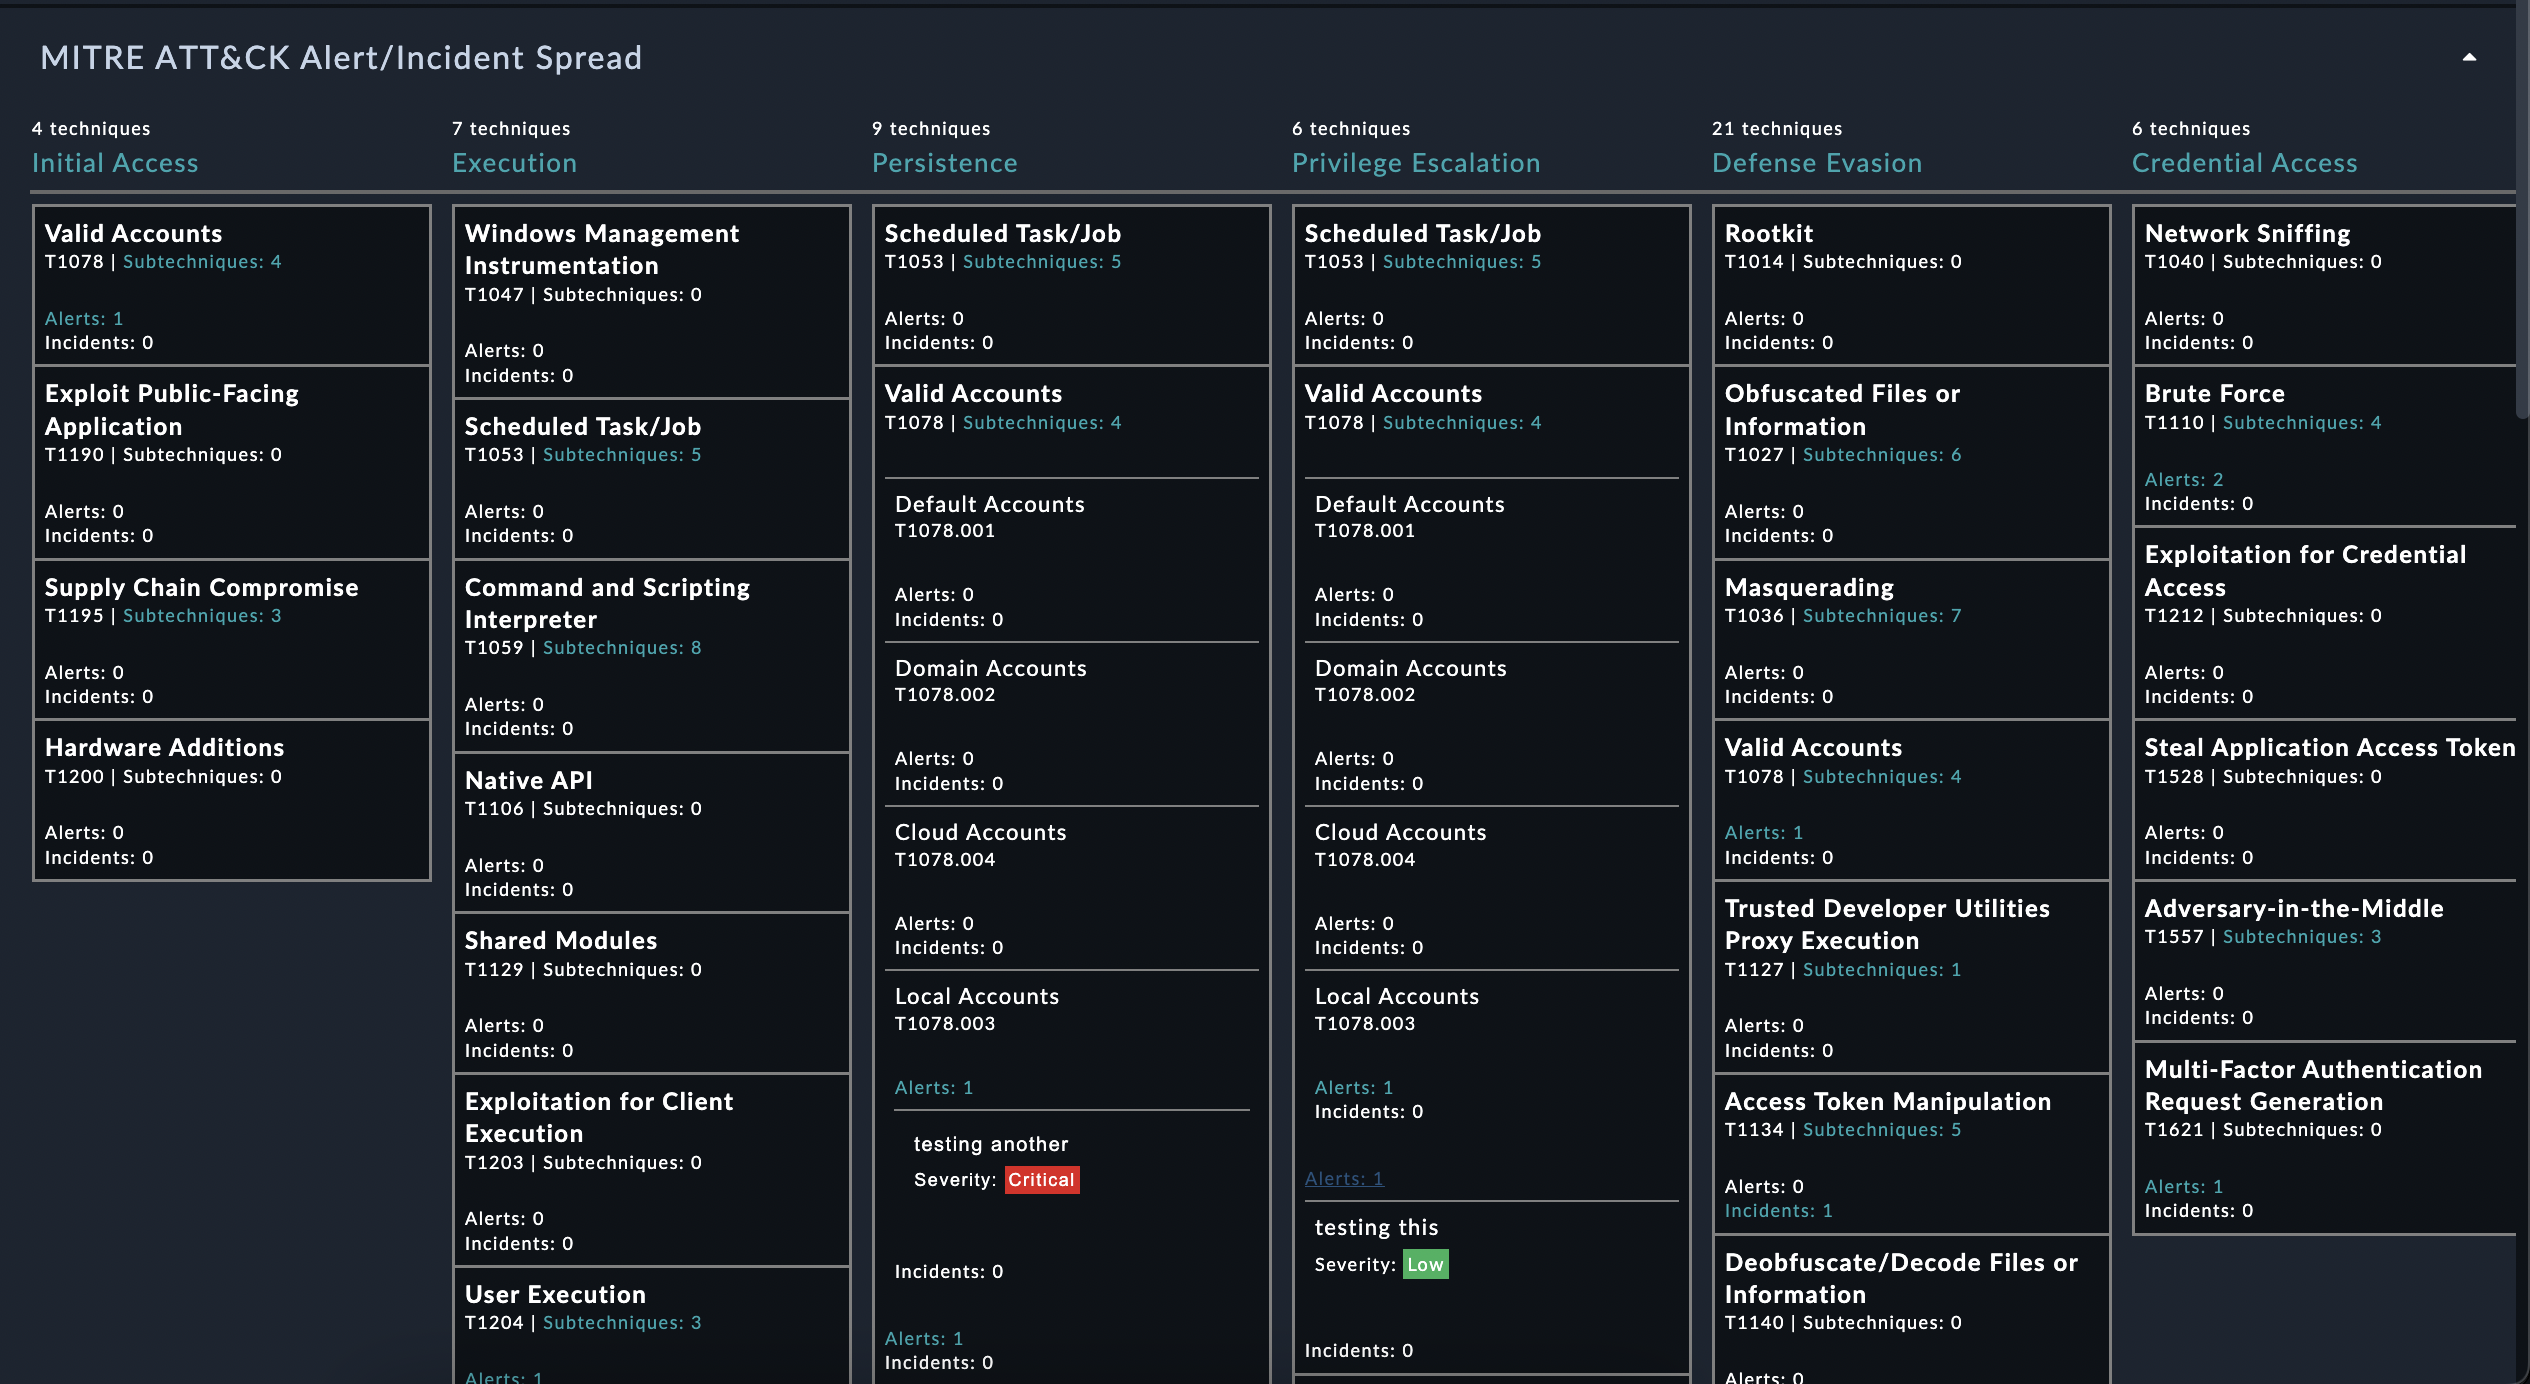
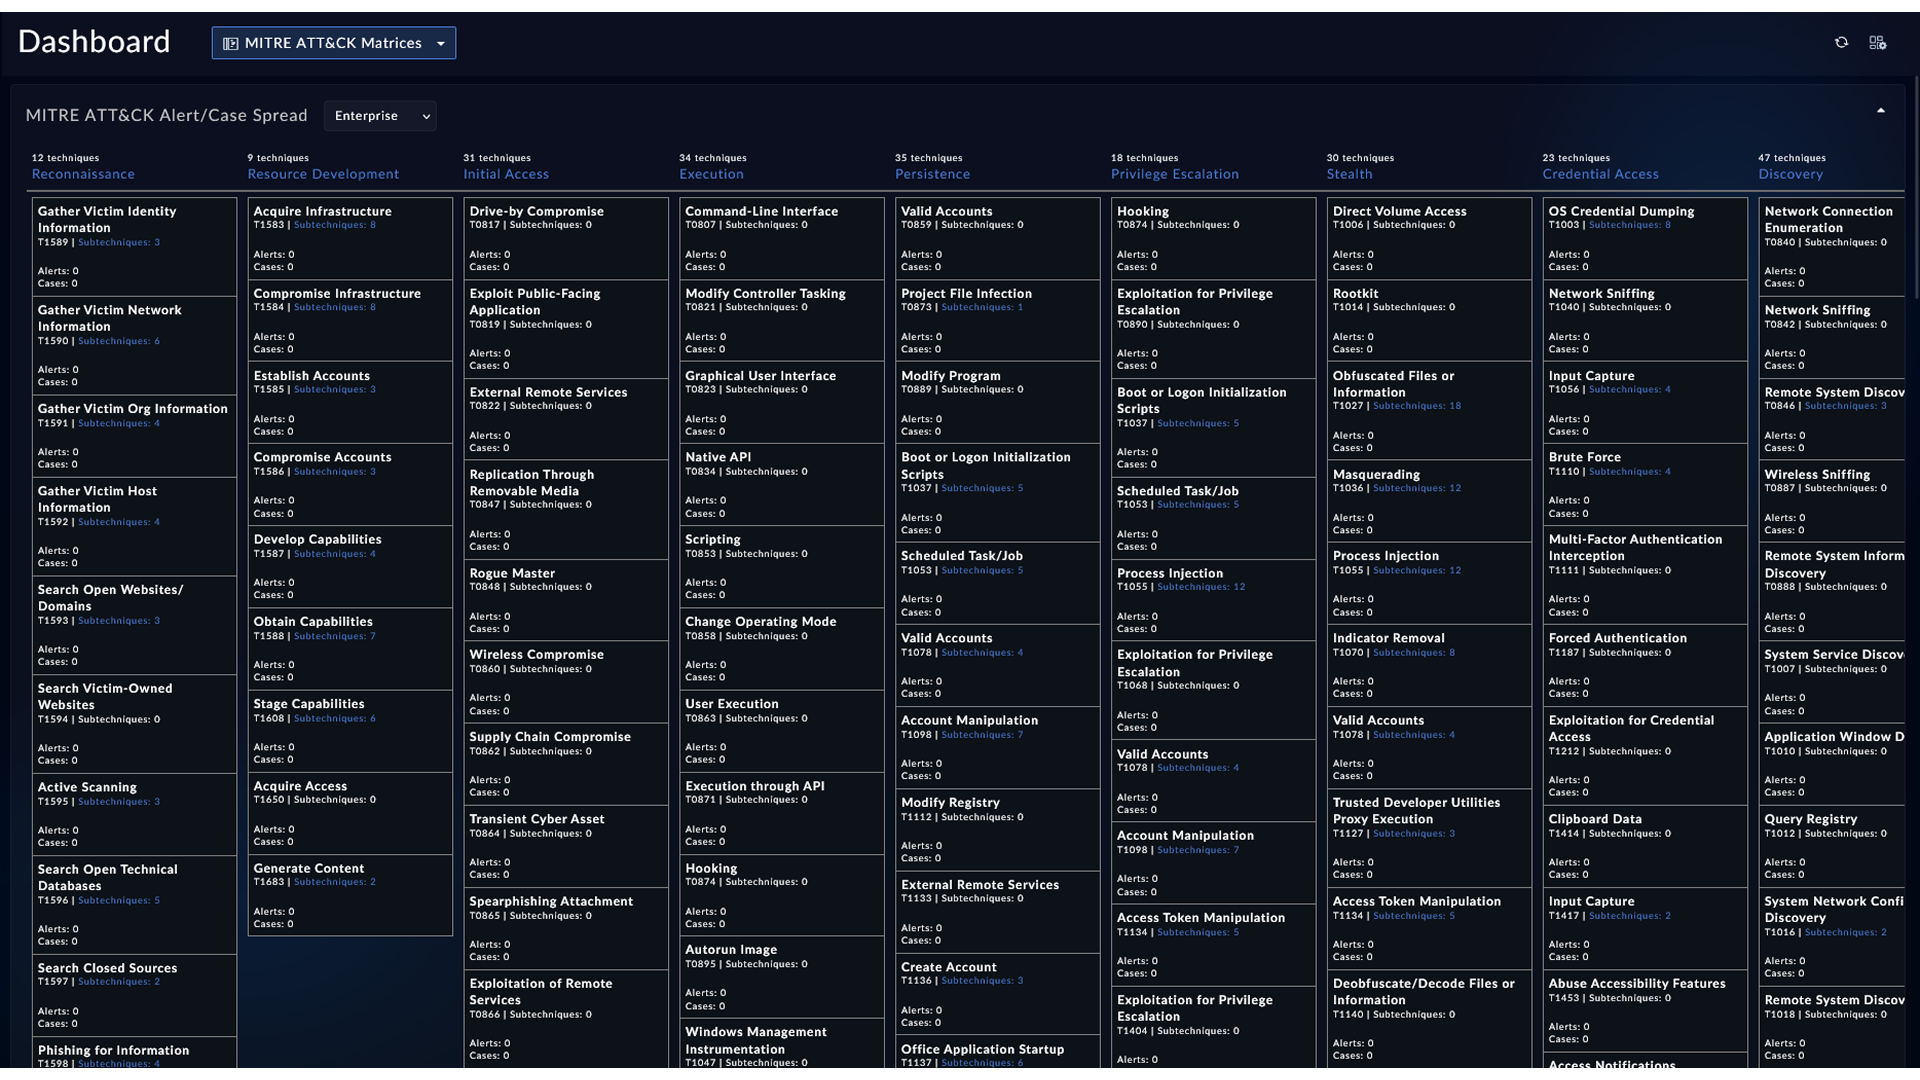
Updated screenshots

Changed region(s): [[0.0, 0.0, 1.0, 1.0]]

diff --git a/docs/usage.md b/docs/usage.md
@@ -40,58 +40,39 @@ FortiSOAR&trade;'s **MITRE ATT&CK Alerts and Case Spread** widget offers a compr
 
 This information equips security analysts with a **structured and actionable view** of threats, enabling them to **efficiently prioritize and respond** to security incidents.
 
-## Mitre ATT&CK Alert/Case Spread
+## MITRE ATT&CK Alert Case Spread Widget - Dashboard View
 
-1. Edit a *Dashboard*'s view template and select the **Add Widget** button.
+![Viewing the MITRE ATT&CK Alert Case Spread Widget on the Dashboard page](./res/dashboard_view.png)
+
+## MITRE ATT&CK Alert Case Spread Widget - Dashboard View with Alert and Case Coverage
+
+![Viewing the MITRE ATT&CK Alert Case Spread Widget on the Dashboard page with Alert and Case Coverage](./res/dashboard_view_heatmap.png)
+
+## Editing the Mitre ATT&CK Alert/Case Spread Widget
+
+![Editing the MITRE ATT&CK Alert Case Spread Widget](./res/edit_view.png)
+
+1. Edit a *Dashboard*'s view template and select the **Add Widget** button. As an example, consider the **MITRE ATT&CK Matrices** dashboard.
 
 2. Select **MITRE ATT&CK Alert Case Spread** from the list to bring up the **MITRE ATT&CK Alert Case Spread** widget's edit view.
 
 3. Specify the title of the spread in the **Title** field.
 
-    ![Edit View, highlighted title field](./res/edit_view_title.png)
-
 4. Select to toggle **Show Alert and Case Coverage** to highlight and expand Techniques and Subtechniques. Only the techniques and subtechniques linked to alerts and incidents are displayed.
-
-    ![Edit View, highlighted Alert and Case Coverage toggle](./res/edit_view_alert_incident_coverage.png)
 
 5. Select to toggle **Expand All Techniques** to highlight and expand all Techniques. This toggle is available only when *Show Alert and Case Coverage* is off.
 
-    ![Edit view, enabled expand all techniques button](./res/edit_view_expand_all_techniques.png)
-
 6. Select to toggle **Hide Empty Tactics** to hide tactics without any Technique relationships.
-
-    ![Edit view, highlighted Hide Empty Tactics button](./res/edit_view_hide_empty_tactics.png)
 
 7. Select to toggle **Hide Empty Techniques** to hide Techniques without any Subtechnique, Alert, or Case relationships.
 
-    ![Edit view, highlighted Hide Empty Techniques button](./res/edit_view_hide_empty_techniques.png)
-
 8. Select to toggle **Filter Based on Groups** and select threat actor groups to filter the Mitre ATT&CK spread.
-
-    ![Edit view, highlighted threat actor groups](./res/edit_view_filter_by_groups.png)
 
 9. Define the filter criteria using which to hide alerts from being rendered by this widget.
 
-    ![Edit view, highlighted filter conditions to hide alerts](./res/edit_view_filter_to_hide_alerts.png)
-
 10. Define the filter criteria using which to hide incidents from being rendered by this widget.
 
-    ![Edit view, highlighted filter conditions to hide alerts](./res/edit_view_filter_to_hide_indicators.png)
-
 11. Click **Save** to save the changes and exit widget's edit view.
-
-### MITRE ATT&CK Alert Case Spread Widget Edit View
-
-![Editing the MITRE ATT&CK Alert Case Spread Widget](./res/edit_view.png)"
-
-### MITRE ATT&CK Alert Case Spread Widget - Dashboard View
-
-![Viewing the MITRE ATT&CK Alert Case Spread Widget on the Dashboard page](./res/dashboard_view.png)
-
-### MITRE ATT&CK Alert Case Spread Widget - Dashboard View with Alert and Case Coverage
-
-![Viewing the MITRE ATT&CK Alert Case Spread Widget on the Dashboard page with Alert and Case Coverage](./res/dashboard_view_heatmap.png)
-
 
 ## Next Steps
 
